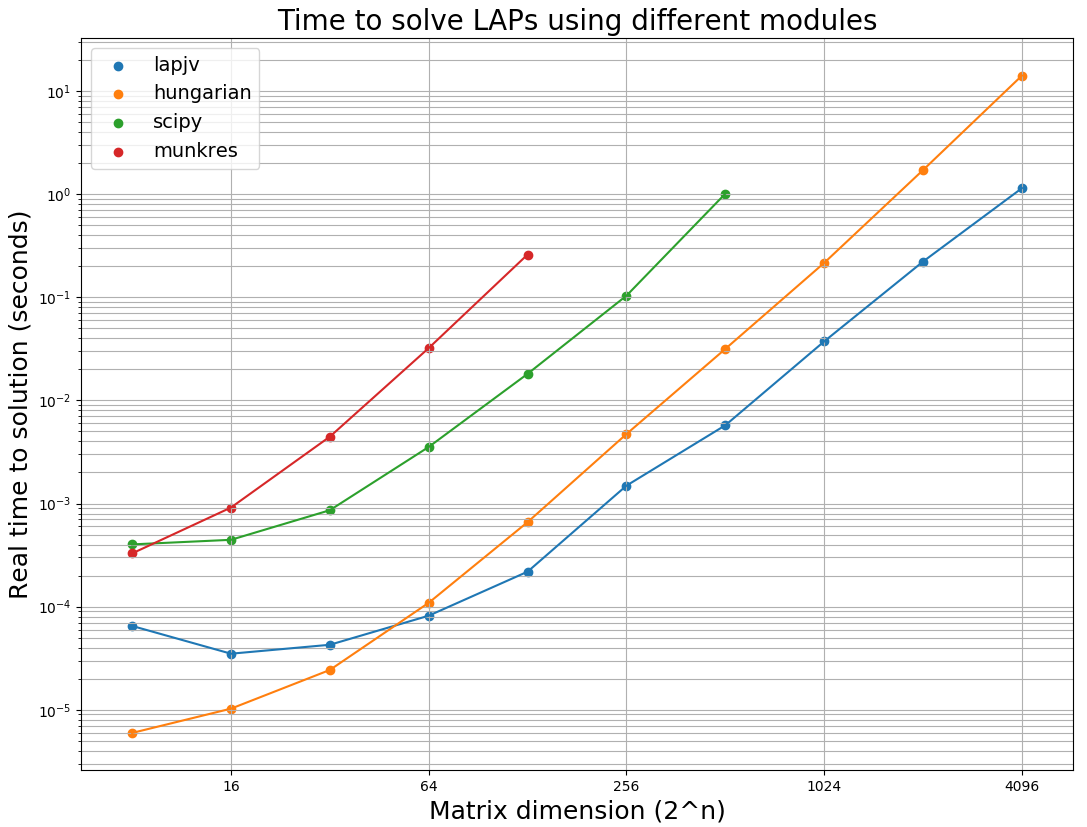
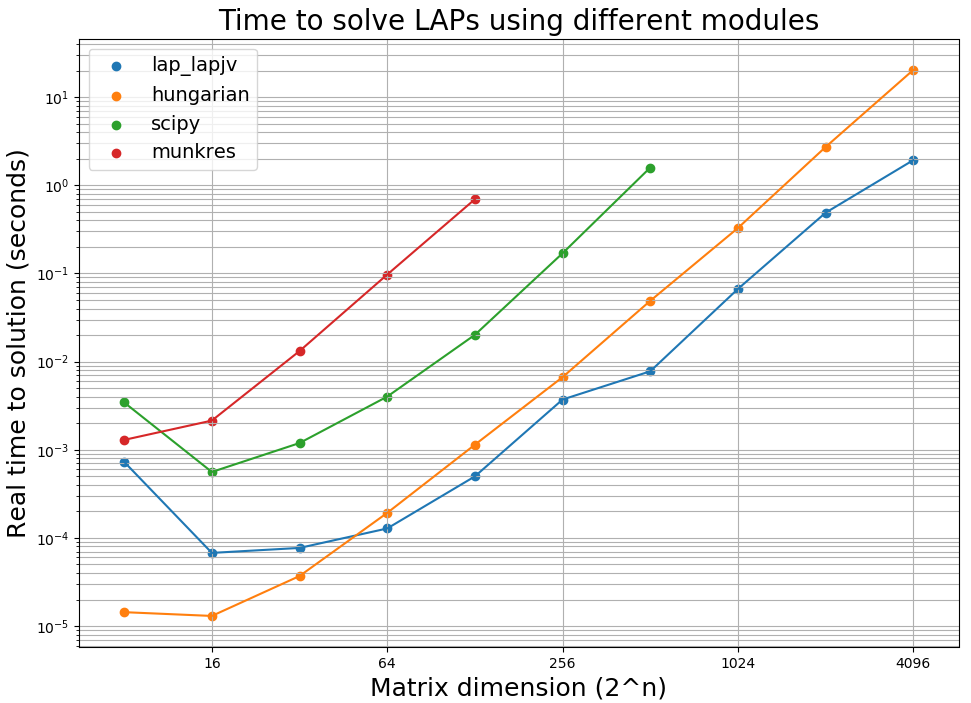
python3 versions added

Changed region(s): [[0.0, 0.0, 0.9887, 1.0]]

diff --git a/benchmark-lap-solvers-py3.py b/benchmark-lap-solvers-py3.py
@@ -1,4 +1,4 @@
-#!/usr/bin/env python2.7
+#!/usr/bin/env python3
 #
 # Tests the performance of linear assignment problem solvers for cost matrices
 # of different sizes.  In particular, we'll be comparing
@@ -22,6 +22,7 @@ from scipy.optimize import linear_sum_assignment
 from scipy.optimize import curve_fit
 import hungarian
 import lap
+import lapjv
 import matplotlib.pyplot as plt
 from matplotlib.ticker import FormatStrFormatter
 
@@ -53,13 +54,16 @@ def main():
     # for each method to ensure quick termination of the benchmarking exercise.
     # unkres and Scipy are considerably slower, making it necessary to limit them to smaller
     # matrices
-    methods = ["lap_lapjv", "hungarian", "scipy", "munkres"]
+
+    # METHODS 
+    methods = ["lap_lapjv", "lapjv_lapjv", "hungarian", "scipy", "munkres"]
     limit = {}
     limit['lap_lapjv'] = max
+    limit['lapjv_lapjv'] = max
     limit['hungarian'] = max
     limit['scipy'] = 9
     limit['munkres'] = 7
-    print "Solving matrices of sizes up to limit 2^{n} where n is " + str(limit)
+    print("Solving matrices of sizes up to limit 2^{n} where n is " + str(limit))
     n_cycles = 3     # will run for n_cycles and average the timing information
     t_methods = ["t_" + i for i in methods]
     label_methods = ["label_" + i for i in methods]
@@ -70,7 +74,7 @@ def main():
         #print t_methods[i]
     for i in range(min,max):
         matrix_size = pow(base,i)
-        print str(matrix_size) + " x " + str(matrix_size)
+        print(str(matrix_size) + " x " + str(matrix_size))
         temp_methods = np.zeros(len(methods),float)
         for j in range(n_cycles):
             cost_matrix = np.random.random((matrix_size, matrix_size))
@@ -89,6 +93,9 @@ def main():
                 elif methods[method] == 'lap_lapjv' and i <= limit[methods[method]]:
                     temp_methods[method] += run_lap_lapjv(cost_matrix)
                     #print temp_methods[method]
+                elif methods[method] == 'lapjv_lapjv' and i <= limit[methods[method]]:
+                    temp_methods[method] += run_lapjv_lapjv(cost_matrix)
+                    #print temp_methods[method]
                 else:
                     pass
 
@@ -99,12 +106,12 @@ def main():
 
     # print timing information to screen
     np.set_printoptions(suppress=True,precision=5)
-    print '%10s '  % ("Matrix size"),
+    print('%10s '  % ("Matrix size"), end=" ")
     x=t_methods[0][:,[0]]
     x=x.flatten()
-    print x
+    print(x)
     for method in range(len(methods)):
-        print '%10s '  % ( methods[method]),
+        print('%10s '  % ( methods[method]),end=" ")
         y=t_methods[method][:,[1]]
         y=y.flatten()
         print(y)
@@ -112,20 +119,6 @@ def main():
     # generate plot
     fig, ax = plt.subplots()
     for method in range(len(methods)):
-        '''
-        # Fit timing information to get a sense of the real scaling
-        #print methods[method]
-        #print t_methods[method]
-        x=t_methods[method][:,[0]]
-        x=x.flatten()
-        #print x
-        y=t_methods[method][:,[1]]
-        y=y.flatten()
-        #print y
-        popt, pcov = curve_fit(lambda t,a,b: a+b*t, np.log(x), np.log(y))
-        label_methods[method] = str(methods[method]) + ' scaling = ' + str(round(popt[1],2))
-        plt.scatter(t_methods[method][:,[0]],t_methods[method][:,[1]],label=label_methods[method])
-        '''
         plt.scatter(t_methods[method][:,[0]],t_methods[method][:,[1]],label=methods[method])
         plt.loglog(t_methods[method][:,[0]],t_methods[method][:,[1]],basex=2,basey=10)
 
@@ -138,10 +131,18 @@ def main():
     plt.show()
 
 # Solve LAP using different methods
-#LAPJV
+#LAP.LAPJV
 def run_lap_lapjv(matrix):
     t_start=time.time()
     cost, x, y = lap.lapjv(matrix)
+    #print x
+    t_end=time.time()
+    return t_end-t_start
+
+#LAPJV.LAPJV
+def run_lapjv_lapjv(matrix):
+    t_start=time.time()
+    x, y, _ = lapjv.lapjv(matrix)
     #print x
     t_end=time.time()
     return t_end-t_start

diff --git a/README.md b/README.md
@@ -1,7 +1,6 @@
 # Purpose
 
-The script benchmarks the performance of four linear assignment problem solvers
-for cost matrices of different sizes.  These solvers are:
+The scripts benchmark the performance of four/five Python2/3 linear assignment problem solvers for cost matrices of different sizes.  These solvers are:
 
 * **linear_sum_assignment** - version provided in scipy
   * https://docs.scipy.org/doc/scipy-0.18.1/reference/generated/scipy.optimize.linear_sum_assignment.html
@@ -9,14 +8,17 @@ for cost matrices of different sizes.  These solvers are:
     * https://github.com/bmc/munkres
 * **hungarian** - a wrapper to a C++ implementation Knuth's Hungarian algorithm provided by Harold Cooper
   * https://github.com/Hrldcpr/Hungarian
-* **lapjv** - a wrapper to a C++ implementation of Jonker-Volgenant algorithm provided by Tomas Kazmar
+* **lap.lapjv** - a wrapper to a C++ implementation of Jonker-Volgenant algorithm provided by Tomas Kazmar
   * https://github.com/gatagat/lap
+* **lapjv.lapjv** - a wrapper to a C++ implementation of Jonker-Volgenant algorithm re-written for Python 3 by source{d}
+    * https://github.com/src-d/lapjv  
 
 They all formally have O(n<sup>3</sup>) complexity, but their performance differs substantially based on their implementation and the size of the matrix they are trying to solve. The purpose of this benchmarking exercise is to see which implementation performs best for a given matrix size. My interest is to use this information to improve the performance of [Arbalign](https://github.com/berhane/arbalign) and expand its use.
 
 # Contents
-The repo contains the following items:
-* benchmark-lap-solvers.py - a Python script
+The repo contains the following:
+* `benchmark-lap-solvers-py2.py` - a Python2 script comparing the first four implementations
+* `benchmark-lap-solvers-py3.py` - a Python3 script comparing all five four implementations
 
 # Usage
 It's simple once you have installed the necessary packages.
@@ -43,27 +45,34 @@ optional arguments:
     2) plot of timing for LAP solving random cost matrices of dimensions 2^{min} - 2^{max}
 ```
 
+Eg: `./benchmark-lap-solvers.py` which is equivalent to
+    `./benchmark-lap-solvers.py --ncyc 3 --min 8 --max 4096`
+
+If you want to add other solvers to the list, it should be easy to figure out what parts to update in the scripts.
+
 # Requirements
-* Python numpy module. If you don't have it already, you can install it using `pip`
-  * `pip install numpy`
+* Python numpy module. If you don't have it already, you can install it using `pip[2/3]`
+  * `pip[2/3] install numpy`
 * Python scipy module.
-  * `pip install  scipy`
+  * `pip[2/3] install  scipy`
 * Python matplotlib module.
-  * `pip install   matplotlib`
+  * `pip[2/3] install   matplotlib`
 * Python `hungarian` module by Harold Cooper.
-  * `pip install   hungarian`
+  * `pip[2/3] install   hungarian`
 * Python `lap` module by Tomas Kozmar.
-  * `pip install lap`
+  * `pip[2/3] install lap`
 * Python `munkres` module by Brian Clapper.
-    * `pip install munkres`
+    * `pip[2/3] install munkres`
 
 # Output
-The script  will produce the following:
+The script  will produce output similar to this. **The output here corresponds to an average of three Python2/3 runs on a 2015 MacBook Air with Intel® Core™ i5-5250U Processor and 8GB RAM**
+
+## Python2
 * data of timing for LAP solving random cost matrices of sizes 2^{min} - 2^{max}
 
 <pre>
 Solving matrices of sizes up to limit 2^{n} where n is
-{'munkres': 7, 'scipy': 9, 'hungarian': 13, 'lapjv': 13}
+{'munkres': 7, 'scipy': 9, 'hungarian': 13, 'lap.lapjv': 13}
 8 x 8
 16 x 16
 32 x 32
@@ -84,11 +93,35 @@ Matrix size  [   8      16       32      64     128     256     512     1024    
 
 * plot of timing for LAP solving random cost matrices of sizes 2<sup>min</sup> - 2<sup>max</sup>
 
-![alt text](images/figure-1.png "benchmark test")
+![alt text](images/figure-py2.png "Python2 benchmark test")
+
+## Python3
+<pre>
+8 x 8
+16 x 16
+32 x 32
+64 x 64
+128 x 128
+256 x 256
+512 x 512
+1024 x 1024
+2048 x 2048
+4096 x 4096
+Matrix size  [   8.     16.     32.     64.   128.    256.    512.    1024.   2048.   4096.]
+lap_lapjv    [0.00012 0.00008 0.00009 0.00015 0.00059 0.00248 0.00876 0.0437  0.39184 2.75649]
+lapjv_lapjv  [0.00002 0.00002 0.00003 0.00006 0.00033 0.00131 0.00631 0.03779 0.32826 0.98762]
+hungarian    [0.00001 0.00002 0.00004 0.00016 0.0011  0.00767 0.04187 0.29449 2.64505 19.34723]
+    scipy    [0.00063 0.00071 0.00196 0.00452 0.02158 0.16243 1.6046 ]
+  munkres    [0.00085 0.00217 0.01174 0.05538 0.46658]
+</pre>
+
+![alt text](images/figure-py3.png "Python3 benchmark test")
 
 # Takeaways
 
-1. `scipy` and `munkres` are much less efficient than `hungarian` and `lapjv` for all matrix sizes
-2. `hungarian` performs better than `lapjv` for matrices of size less than 64x64. For Anything larger than 256x256, `lapjv` is about an order of magnitude faster than `hungarian`
-3. `lapjv` is am implementation intended to solve dense metrices. Its sparse matrix solver analog named `lapmod` is more efficient for larger sparse matrices. Both are implemented in the `lap` module.
-4. For the purposes of improving [Arbalign](https://github.com/berhane/arbalign), `hungarian` remains the best choice for most molecular systems I'm interested in which don't have more than 100 atoms of the same type. However, if the tool is to be applied to larger molecules such as proteins and DNA, it would be worthwhile to use `lapjv` or even `lapmod`
+1. `scipy` and `munkres` are much slower than `hungarian`, `lap.lapjv`, and `lapjv.lapjv` for all matrix sizes
+2. `hungarian` performs better than `lap.lapjv` and `lapjv.lapjv` for matrices of size less than 16x16. For Anything larger than 256x256, `lap.lapjv` and `lapjv.lapjv` are about an order of magnitude faster than `hungarian`
+3. `lap.lapjv` is am implementation intended to solve dense matrices. Its sparse matrix solver analog named `lap.lapmod` is more efficient for larger sparse matrices. Both are implemented in the `lap` module.
+4. `lapjv.lapjv` has the best performance virtually for all matrix sizes.
+5. There is definitely a need to check that all these methods reach the same solutions.
+5. For the purposes of improving [Arbalign](https://github.com/berhane/arbalign), `hungarian` remains the best choice for most molecular systems I'm interested in, which don't have more than 100 atoms of the same type. However, if the tool is to be applied to larger molecules such as proteins and DNA, it would be worthwhile to use `lap.lapjv` or even `lap.lapmod`
